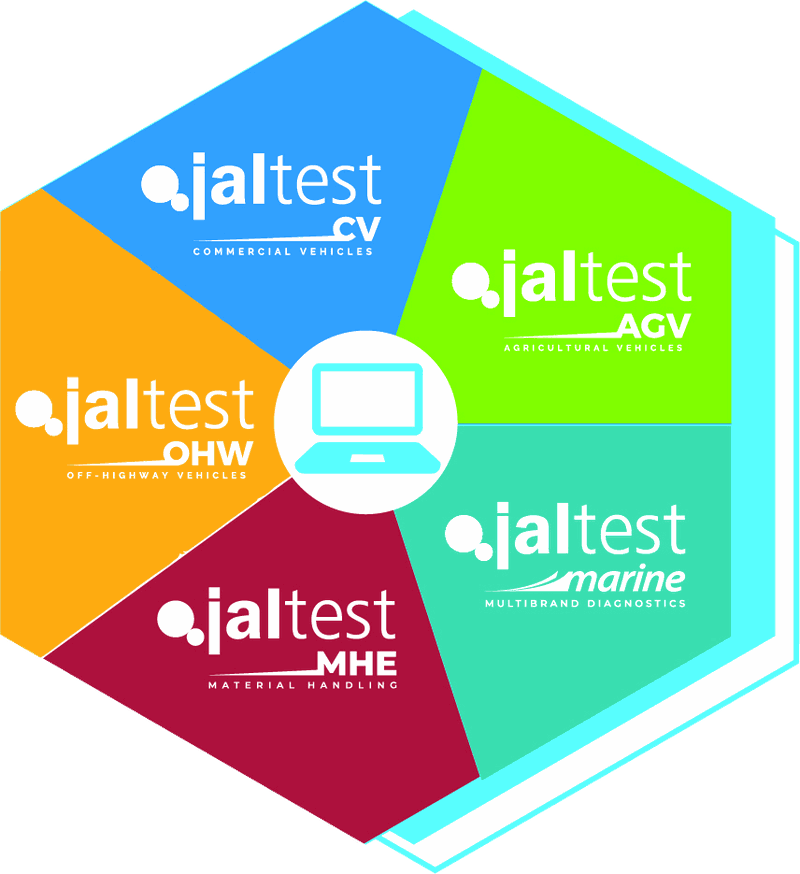
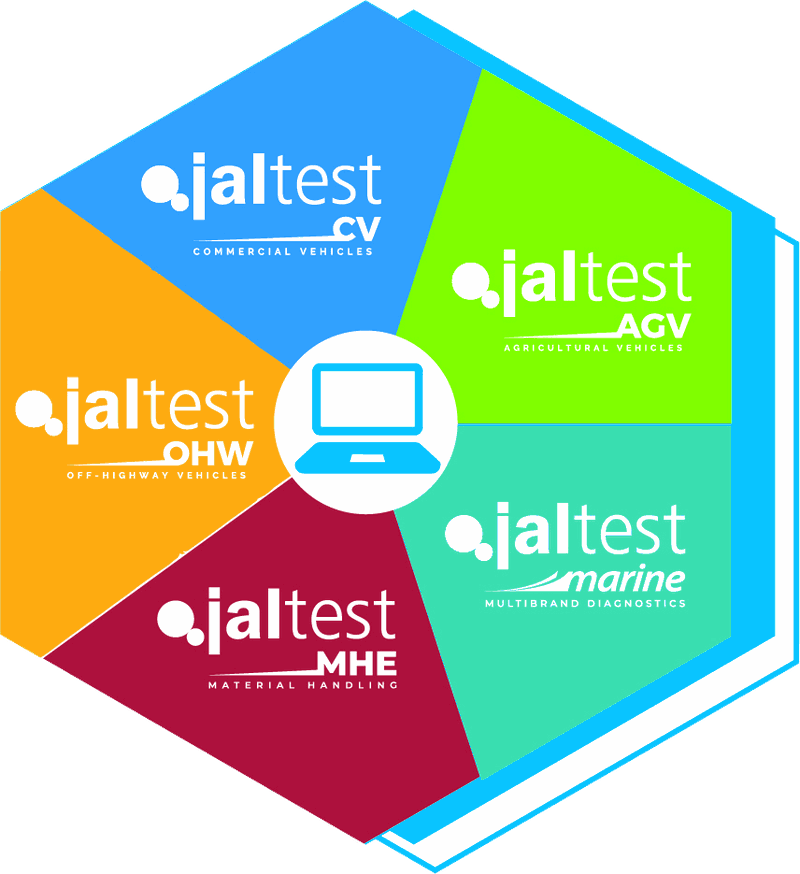
fix(admin,home): hex de cobertura en color de marca y precios en láminas
Obs del cliente: el hexágono de fondo de la rueda de cobertura salía en cian
claro (#57FEFE) mientras el de la pieza de la izquierda es el azul de marca.
El color venía horneado en el PNG, así que se recoloreó el asset a #08C4FF —
el mismo que trae `renovaciones.png` — respetando el degradado del borde.

Además, las láminas del panel solo dejaban cambiar imágenes: para tocar la
tarifa había que saltar a /admin/productos. Ahora cada lámina de línea Jaltest
edita sus dos precios (USA/Canadá y resto del mundo) en el mismo guardado. La
Server Action solo acepta `productId` de productos `kind = jaltest`, así la
lámina no se convierte en una puerta trasera para reprecificar cualquier
producto.

Changed region(s): [[0.4688, 0.0, 1.0, 0.9886], [0.375, 0.4016, 0.5625, 0.5561], [0.5312, 0.9886, 0.5625, 1.0]]

diff --git a/src/components/admin/media-group-form.tsx b/src/components/admin/media-group-form.tsx
@@ -14,6 +14,9 @@ const initial: ActionState = {};
 
 export type SlotValue = { img: string; labelEs: string; labelEn: string };
 
+/** Precios (en dólares) de la línea Jaltest que publica esta lámina. */
+export type LinePrices = { productId: string; priceUs: string; priceWorld: string };
+
 /**
  * Un formulario por lámina. Cada slot manda `img:<clave>` (+ etiquetas), y la
  * Server Action solo acepta claves que el diseño declara.
@@ -25,11 +28,14 @@ export function MediaGroupForm({
   group,
   values,
   defaults = {},
+  prices,
 }: {
   group: MediaGroup;
   values: Record<string, SlotValue>;
   /** Lo que se publica hoy en cada slot si nadie lo ha personalizado. */
   defaults?: Record<string, MediaDefault>;
+  /** Solo en láminas de línea: precios por tarifa de su producto Jaltest. */
+  prices?: LinePrices;
 }) {
   const [state, action, pending] = useActionState(saveSiteMediaAction, initial);
   const [slots, setSlots] = useState<Record<string, SlotValue>>(() =>
@@ -37,20 +43,23 @@ export function MediaGroupForm({
       group.slots.map((s) => [s.key, values[s.key] ?? { img: "", labelEs: "", labelEn: "" }]),
     ),
   );
+  const [priceUs, setPriceUs] = useState(prices?.priceUs ?? "");
+  const [priceWorld, setPriceWorld] = useState(prices?.priceWorld ?? "");
 
-  // Lo guardado por última vez. Comparado con `slots` da el estado "sin guardar":
-  // subir una imagen solo la coloca en el formulario, persiste el botón.
-  const [saved, setSaved] = useState(() => JSON.stringify(slots));
-  const dirty = JSON.stringify(slots) !== saved;
+  // Lo guardado por última vez. Comparado con el estado actual da "sin guardar":
+  // subir una imagen o teclear un precio solo lo coloca en el formulario.
+  const snapshot = JSON.stringify({ slots, priceUs, priceWorld });
+  const [saved, setSaved] = useState(snapshot);
+  const dirty = snapshot !== saved;
 
   useEffect(() => {
     if (state.ok) {
-      toast.success("Imágenes guardadas.");
-      setSaved(JSON.stringify(slots));
+      toast.success(prices ? "Lámina y precios guardados." : "Imágenes guardadas.");
+      setSaved(snapshot);
     }
     if (state.error) toast.error(state.error);
-    // `slots` a propósito fuera de las dependencias: solo interesa su valor en el
-    // momento en que el guardado responde, no en cada tecla.
+    // `snapshot` a propósito fuera de las dependencias: solo interesa su valor en
+    // el momento en que el guardado responde, no en cada tecla.
     // eslint-disable-next-line react-hooks/exhaustive-deps
   }, [state]);
 
@@ -117,6 +126,41 @@ export function MediaGroupForm({
           );
         })}
       </div>
+
+      {/* Precios de la línea: la misma tabla que /admin/productos, aquí a mano
+          porque el cliente cambia tarifa y fotos en la misma pasada. */}
+      {prices && (
+        <div className="mt-6 rounded-xl border border-border bg-bg-soft/60 p-4">
+          <input type="hidden" name="productId" value={prices.productId} />
+          <p className="text-sm font-bold text-text-main">Precios (USD)</p>
+          <div className="mt-3 grid gap-4 sm:grid-cols-2 lg:max-w-lg">
+            <div className="space-y-1.5">
+              <Label className="text-[11px]">Estados Unidos / Canadá</Label>
+              <Input
+                name="priceUs"
+                type="number"
+                step="0.01"
+                min="0"
+                value={priceUs}
+                onChange={(e) => setPriceUs(e.target.value)}
+                required
+              />
+            </div>
+            <div className="space-y-1.5">
+              <Label className="text-[11px]">Resto del mundo</Label>
+              <Input
+                name="priceWorld"
+                type="number"
+                step="0.01"
+                min="0"
+                value={priceWorld}
+                onChange={(e) => setPriceWorld(e.target.value)}
+                required
+              />
+            </div>
+          </div>
+        </div>
+      )}
 
       {state.error && (
         <p role="alert" className="mt-4 text-sm font-semibold text-jt-mhe">

diff --git a/src/app/admin/actions.ts b/src/app/admin/actions.ts
@@ -5,7 +5,7 @@
 
 import { revalidatePath } from "next/cache";
 import { redirect } from "next/navigation";
-import { eq, inArray } from "drizzle-orm";
+import { and, eq, inArray } from "drizzle-orm";
 import { z } from "zod";
 import { db } from "@/db";
 import { ORDER_STATUSES } from "@/lib/admin-labels";
@@ -563,6 +563,51 @@ export async function deleteBannerAction(formData: FormData) {
 // ─────────────────────────────────────────────────────────────────────────────
 
 /**
+ * Precios de la lámina de una línea Jaltest (`productId` + `priceUs`/`priceWorld`,
+ * en dólares). Solo se aceptan sobre productos `jaltest`: la lámina no es una vía
+ * para editar el precio de cualquier producto. Devuelve el mensaje de error o
+ * `null` si no había precios que guardar.
+ */
+async function saveLinePrices(formData: FormData): Promise<string | null> {
+  const raw = formData.get("productId");
+  if (!raw) return null;
+
+  const parsed = z
+    .object({
+      productId: z.uuid(),
+      priceUs: z.coerce.number().min(0),
+      priceWorld: z.coerce.number().min(0),
+    })
+    .safeParse({
+      productId: raw,
+      priceUs: formData.get("priceUs"),
+      priceWorld: formData.get("priceWorld"),
+    });
+  if (!parsed.success) return "Precios inválidos.";
+
+  const { productId, priceUs, priceWorld } = parsed.data;
+  const [line] = await db
+    .select({ id: products.id })
+    .from(products)
+    .where(and(eq(products.id, productId), eq(products.kind, "jaltest")));
+  if (!line) return "La línea Jaltest de esta lámina ya no existe.";
+
+  for (const t of [
+    { tier: "us" as const, amountCents: Math.round(priceUs * 100) },
+    { tier: "world" as const, amountCents: Math.round(priceWorld * 100) },
+  ]) {
+    await db
+      .insert(productPrices)
+      .values({ productId, ...t })
+      .onConflictDoUpdate({
+        target: [productPrices.productId, productPrices.tier],
+        set: { amountCents: t.amountCents },
+      });
+  }
+  return null;
+}
+
+/**
  * Guarda un grupo de slots de lámina. El form manda, por cada slot, `img:<clave>`
  * y opcionalmente `labelEs:<clave>` / `labelEn:<clave>`.
  *
@@ -606,8 +651,14 @@ export async function saveSiteMediaAction(
 
   if (seen.size === 0) return { error: "No se recibió ninguna imagen válida." };
 
+  // Las láminas de línea traen además los 2 precios de su producto Jaltest, para
+  // no obligar a saltar a /admin/productos por un cambio de tarifa.
+  const priceError = await saveLinePrices(formData);
+  if (priceError) return { error: priceError };
+
   revalidatePublic();
   revalidatePath("/admin/laminas");
+  revalidatePath("/admin/productos");
   return { ok: true };
 }
 

diff --git a/src/app/admin/laminas/page.tsx b/src/app/admin/laminas/page.tsx
@@ -1,3 +1,6 @@
+import { eq } from "drizzle-orm";
+import { db } from "@/db";
+import { productPrices, products } from "@/db/schema";
 import { requireUser } from "@/lib/auth";
 import { getJaltestLines, getSiteMedia } from "@/lib/catalog";
 import { LINE_SPECS } from "@/lib/product-specs";
@@ -9,7 +12,11 @@ import {
   SOLUTIONS_FALLBACK_IMG,
   type MediaDefault,
 } from "@/lib/site-media";
-import { MediaGroupForm, type SlotValue } from "@/components/admin/media-group-form";
+import {
+  MediaGroupForm,
+  type LinePrices,
+  type SlotValue,
+} from "@/components/admin/media-group-form";
 
 /**
  * Imágenes de las láminas institucionales de /producto. No hay altas ni bajas:
@@ -33,6 +40,33 @@ export default async function LaminasPage() {
     Object.assign(defaults, lineDefaults(id, LINE_SPECS[id], line?.vehicleImg));
   }
 
+  // Precios por tarifa de cada línea (los grupos de lámina de línea llevan el
+  // `accentKey` como id). Se leen los 2 tiers de una vez: la lámina los edita.
+  const priceRows = await db
+    .select({
+      accentKey: products.accentKey,
+      productId: products.id,
+      tier: productPrices.tier,
+      amountCents: productPrices.amountCents,
+    })
+    .from(products)
+    .leftJoin(productPrices, eq(productPrices.productId, products.id))
+    .where(eq(products.kind, "jaltest"));
+
+  const pricesByLine: Record<string, LinePrices> = {};
+  for (const row of priceRows) {
+    if (!row.accentKey) continue;
+    const entry = (pricesByLine[row.accentKey] ??= {
+      productId: row.productId,
+      priceUs: "",
+      priceWorld: "",
+    });
+    if (row.amountCents == null) continue;
+    const dollars = String(row.amountCents / 100);
+    if (row.tier === "us") entry.priceUs = dollars;
+    if (row.tier === "world") entry.priceWorld = dollars;
+  }
+
   return (
     <>
       <header className="mb-6">
@@ -41,7 +75,8 @@ export default async function LaminasPage() {
           Imágenes de la página <strong>Producto</strong>: la foto principal y las 3 de apoyo
           de cada línea Jaltest, el kit del producto y las fotos de la sección de cables.
           Las marcadas como <strong>Actual · del diseño</strong> son las que ya se ven en la
-          web; sube una encima para reemplazarlas.
+          web; sube una encima para reemplazarlas. En cada línea Jaltest se editan
+          también sus dos precios (USA/Canadá y resto del mundo).
         </p>
       </header>
 
@@ -66,6 +101,7 @@ export default async function LaminasPage() {
               group={group}
               values={values}
               defaults={defaults}
+              prices={pricesByLine[group.id]}
             />
           );
         })}

diff --git a/src/app/admin/__tests__/actions.test.ts b/src/app/admin/__tests__/actions.test.ts
@@ -2,7 +2,7 @@
 // Cubren: guardas de roles, conversión USD→centavos de envío y el enrutado del reintento.
 
 import { beforeEach, describe, expect, it, vi } from "vitest";
-import { queueDb, resetDb, valuesWith } from "@/test/db-mock";
+import { dbCalls, queueDb, resetDb, valuesWith } from "@/test/db-mock";
 
 vi.mock("@/db", async () => {
   const { installDbMock } = await import("@/test/db-mock");
@@ -182,5 +182,48 @@ describe("saveSiteMediaAction — láminas", () => {
 
     expect(res.error).toBeTruthy();
     expect(valuesWith("key")).toBeUndefined();
+  });
+
+  it("guarda los 2 precios de la línea junto con la lámina", async () => {
+    // Primero se resuelve el upsert de la imagen; después el select de la línea.
+    queueDb([], [{ id: OTHER }]);
+
+    const res = await saveSiteMediaAction(
+      {},
+      fd({
+        "img:line.agv.main": "https://cdn/agv.png",
+        productId: OTHER,
+        priceUs: "1999.50",
+        priceWorld: "2200",
+      }),
+    );
+
+    expect(res.ok).toBe(true);
+    const inserts = dbCalls()
+      .filter((c) => c.method === "values")
+      .map((c) => c.args[0] as Record<string, unknown>)
+      .filter((v) => "tier" in v);
+    expect(inserts).toEqual([
+      { productId: OTHER, tier: "us", amountCents: 199950 },
+      { productId: OTHER, tier: "world", amountCents: 220000 },
+    ]);
+  });
+
+  // La lámina no es una puerta trasera para tocar el precio de cualquier producto.
+  it("rechaza precios sobre un producto que no es una línea Jaltest", async () => {
+    queueDb([]); // el select no encuentra línea
+
+    const res = await saveSiteMediaAction(
+      {},
+      fd({
+        "img:line.agv.main": "https://cdn/agv.png",
+        productId: OTHER,
+        priceUs: "10",
+        priceWorld: "10",
+      }),
+    );
+
+    expect(res.error).toBeTruthy();
+    expect(valuesWith("tier")).toBeUndefined();
   });
 });
